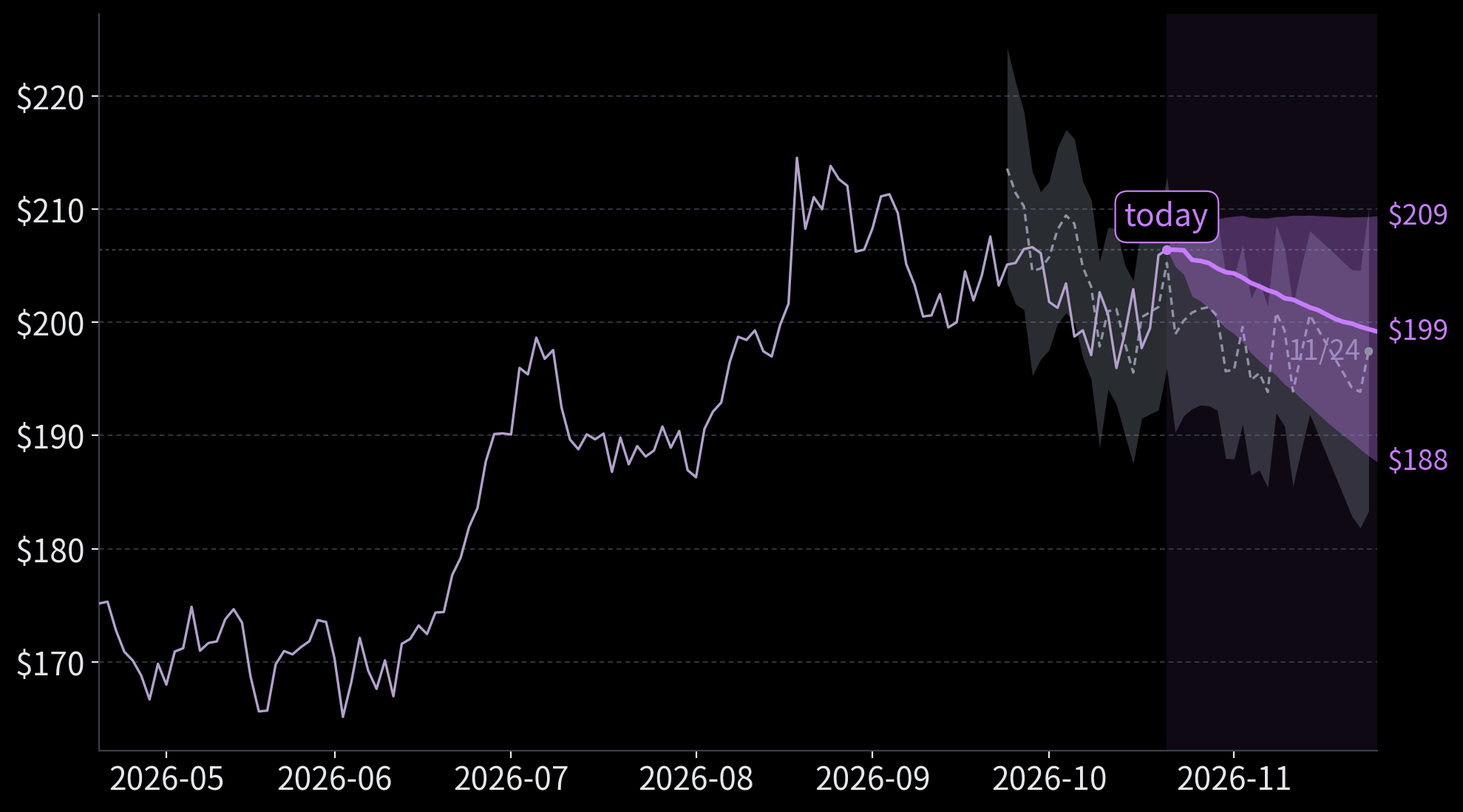
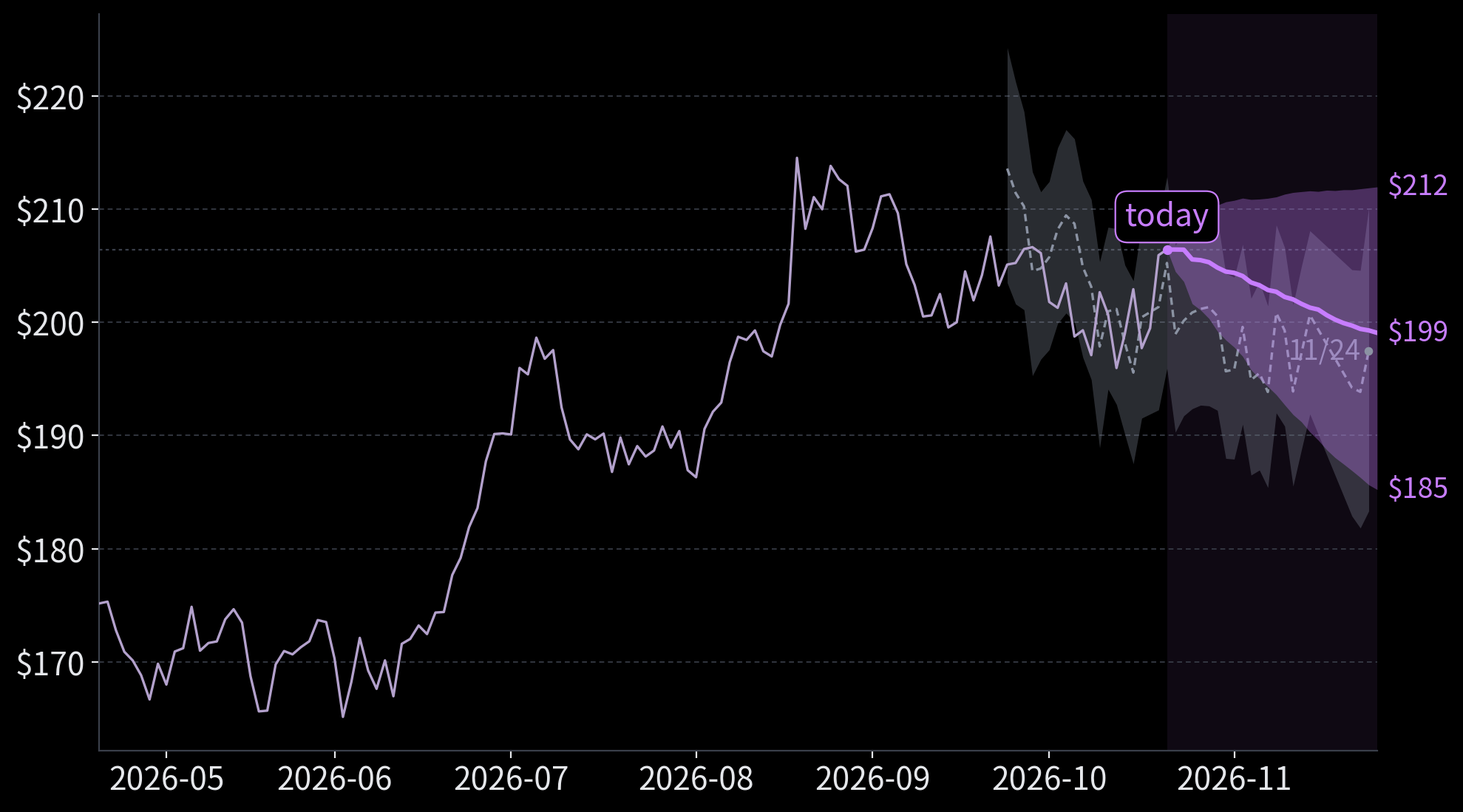
2026-10-22 biotech 리포트 공개본

diff --git a/r/20261022-biotech/report.html b/r/20261022-biotech/report.html
@@ -1,146 +1,165 @@
 <h2 id="오늘-판단-요약">오늘 판단 요약</h2>
-<p><img src="r/20261022-biotech/chart-biotech.png?v=277e4b48e6" /></p>
-<p><img src="r/20261022-biotech/predict-biotech.png?v=d1aae471c4" /></p>
+<p><img src="r/20261022-biotech/chart-biotech.png?v=337e635da9" /></p>
+<p><img src="r/20261022-biotech/predict-biotech.png?v=b8495b4a70" /></p>
 <h3
-id="현재-상태-기술주가-반등한-날-헬스케어로-옮겨-갔던-자금이-빠졌지만-대형-바이오-주가는-소폭-올랐다"><mark>현재
-상태</mark> 기술주가 반등한 날 헬스케어로 옮겨 갔던 자금이 빠졌지만 대형
-바이오 주가는 소폭 올랐다</h3>
-<p>10월 21일 미국 증시에서 투자자가 기술주와 산업재를 다시 사들였다.
-지난 몇 주 오르던 헬스케어·필수소비재·유틸리티 주가는 이날 상대적으로 덜
-올랐다. 나스닥 바이오테크놀로지 지수는 소폭 올랐지만, 중소형 바이오를
-고르게 담은 XBI는 내렸다. 나스닥 바이오테크놀로지 지수는 지난 1년 가운데
-상위 6% 안에 있다. 10년물 물가연동국채 실질금리와 10년물 국채 수익률이
-반년 가까이 높아서 국채가 주식보다 나은 수익을 주는 상태가 이어지고
-있다. 위험한 기업에 돈을 빌려줄 때 투자자가 요구하는 프리미엄(하이일드
-채권 스프레드)은 닷새째 1년 가운데 가장 높은 수준이다. 그래서 대형
-바이오 주가가 지금 수준에서 크게 오르기는 어렵다.</p>
+id="현재-상태-바이오-지수는-1년-고점-근처에-있지만-국채-금리가-높고-ai-기업의-부채에-대한-불안이-이어져-더-오르기-어렵다"><mark>현재
+상태</mark> 바이오 지수는 1년 고점 근처에 있지만, 국채 금리가 높고 AI
+기업의 부채에 대한 불안이 이어져 더 오르기 어렵다</h3>
+<p>10월 16일 AI 인프라 기업의 부채에 대한 우려 때문에 기술주가 크게
+하락했다. 바이오 주가도 같은 날 함께 하락했다. 모더나는 mRNA 기술로
+백신과 암 치료제를 만드는 기업이다. 10월 20일에는 모더나가 흑색종 백신
+발표를 앞두고 크게 오르면서 바이오 지수가 낙폭을 회복했다. 10월 21일에는
+투자자가 기술주를 다시 사들였고, 헬스케어 주식을 사던 자금은 하루 만에
+줄었다. 나스닥 바이오테크놀로지 지수는 지난 1년 가운데 가장 높은 수준에
+가깝다. 다만 국채가 주식보다 나은 수익을 주는 상태가 반년 가까이
+이어지고 있어, 신약 성과가 좋아도 주가가 크게 오르기는 어렵다. 위험
+회사채 시장의 신용 프리미엄도 1년 가운데 가장 높은 수준에 가깝게
+올랐지만, 금리가 크게 오른 채권은 아직 AI 관련 발행사와 최하위 등급
+채권이 대부분이다.</p>
 <h3
-id="주요-분기와-예측-모더나의-흑색종-백신-세부-결과와-위험-회사채-시장에-대한-불안-빅테크-실적이-이번-달에-중요하다"><mark>주요
-분기와 예측</mark> 모더나의 흑색종 백신 세부 결과와 위험 회사채 시장에
-대한 불안, 빅테크 실적이 이번 달에 중요하다</h3>
-<p>앞으로 한 달 동안 세 가지 이슈가 중요하다. 첫째는 머크와 함께 흑색종
-백신을 개발하는 모더나가 10월 24일 유럽종양학회에서 발표하는 3상 세부
-결과다. 투자자가 기대하는 효과 수준이 나올 가능성이 가장 높다고 보지만,
-모더나 주가가 이미 애널리스트 목표가보다 크게 올라 있어 결과가 기대에 못
-미치면 하락 폭이 크다. 둘째는 AI 데이터센터 발행사의 채권에 대한 불안
-때문에 위험 회사채 시장 전체의 프리미엄이 오르는지다. 신용등급 강등이나
-발행 철회가 이어질 가능성은 낮다고 본다. 셋째는 10월 28일 장 마감 뒤
-나오는 마이크로소프트 실적이다. 마이크로소프트가 AI 설비투자 계획을 지킬
-가능성이 높다고 본다.</p>
+id="주요-분기와-예측-앞으로-한-달-동안-모더나의-흑색종-백신-결과-ai-기업의-부채에-대한-불안-빅테크의-설비투자-계획이-중요하다"><mark>주요
+분기와 예측</mark> 앞으로 한 달 동안 모더나의 흑색종 백신 결과, AI
+기업의 부채에 대한 불안, 빅테크의 설비투자 계획이 중요하다</h3>
+<p>이번 달 바이오 주가에 가장 중요한 일은 10월 24일 모더나의 흑색종 백신
+3상 세부 결과 발표다. 재발 위험을 줄인 정도가 시장이 기대한 수준 근처로
+나올 가능성이 가장 높다고 본다. 두 번째는 AI 기업의 부채에 대한
+불안이다. 이 불안 때문에 위험 회사채 시장 전체의 신용 프리미엄까지 크게
+오를 가능성은 낮다고 본다. 세 번째는 10월 28일 마이크로소프트와 알파벳의
+실적 발표이고, 두 회사가 AI 설비투자 계획을 지킬 가능성이 높다고 본다.
+같은 날 연준은 금리를 동결하고 12월 인상 가능성을 남겨 둘 가능성이 높다.
+시장이 이미 예상한 결과라 발표 뒤 주가가 크게 움직이지 않는다.</p>
 <h3
-id="지수-영향-횡보-가능성이-가장-높고-하락이-그다음이며-큰-하락-가능성은-어제보다-줄었다"><mark>지수
-영향</mark> 횡보 가능성이 가장 높고 하락이 그다음이며, 큰 하락 가능성은
-어제보다 줄었다</h3>
-<p>가장 가능성이 높은 시나리오는 횡보이고, 그다음은 하락이다. 모더나
-결과가 기대에 못 미치거나 위험 회사채 시장 전체의 프리미엄이 오르면
-하락과 큰 하락 시나리오의 가능성이 커진다. 횡보 가능성은 어제보다
-커졌다. 큰 하락 가능성은 어제보다 줄었다. 어제 장 마감 뒤 메타는 매출이
-기대를 웃돌고 연간 설비투자 계획의 하단을 올렸다. 메타 실적에서는
-기술주가 급락해 바이오 주가도 하락할 신호가 나오지 않았다. 대형 바이오
-기업의 3분기 실적은 시장이 예상한 범위 안에서 나올 가능성이 높아, 실적
-발표 때문에 지수가 크게 오르거나 내리지는 않는다고 본다.</p>
+id="지수-영향-횡보-시나리오의-가능성이-가장-높고-모더나-결과가-실망스럽거나-ai-기업의-부채에-대한-불안이-커지면-하락-시나리오의-가능성이-커진다"><mark>지수
+영향</mark> 횡보 시나리오의 가능성이 가장 높고, 모더나 결과가
+실망스럽거나 AI 기업의 부채에 대한 불안이 커지면 하락 시나리오의
+가능성이 커진다</h3>
+<p>다섯 시나리오 가운데 횡보의 가능성이 가장 높고 하락이 그다음이다. 큰
+하락의 가능성도 하락과 비슷한 수준이다. 모더나 결과가 시장 기대에 못
+미치거나 AI 기업의 부채에 대한 불안 때문에 위험 회사채 시장 전체의 신용
+프리미엄까지 오르면 하락과 큰 하락 시나리오의 가능성이 커진다. 빅테크가
+설비투자 계획을 지키고 모더나 결과가 기대 근처로 나오면 횡보 시나리오의
+가능성이 커진다. 다섯 시나리오의 가능성은 어제와 거의 같다. 어제와 오늘
+사이 메타는 매출이 예상을 넘었고 올해 설비투자 계획의 하단을 올렸다.
+메타의 실적에도 위험 회사채 시장의 신용 프리미엄이 닷새 연속 높았으므로,
+상승 시나리오의 가능성은 조금 커지고 큰 하락 시나리오의 가능성은 조금
+줄었을 뿐이다.</p>
 <h2 id="주요-이슈-해설">주요 이슈 해설</h2>
 <h3
-id="1-모더나-백신-결과는-기대-수준에-맞을-가능성이-높지만-주가가-이미-크게-올라-실망하면-바이오-지수가-하락한다-중요도-높음">1.
-모더나 백신 결과는 기대 수준에 맞을 가능성이 높지만, 주가가 이미 크게
-올라 실망하면 바이오 지수가 하락한다 <code>중요도 높음</code></h3>
-<p><mark>현재 상태</mark> 모더나는 머크와 함께 환자마다 맞춘 흑색종
-백신을 개발하는 기업이다. 두 회사는 8월에 3상 시험이 재발 없이 생존하는
-기간을 늘렸다고 발표했지만 효과의 크기는 밝히지 않았다. 세부 결과는 10월
-24일(토) 유럽종양학회에서 나오고, 시장은 10월 26일 장에서 처음 반응한다.
-모더나 주가는 10월 21일 245.81달러로 일주일 전보다 10% 넘게 올랐다. TD
-Cowen은 목표가를 90달러로 올리면서도 보유 의견을 유지했다. Evercore
-ISI는 지금 주가가 전제한 확신을 지금까지 공개된 자료로는 설명할 수
-없다고 평가했다.</p>
-<p><mark>주요 분기와 예측</mark> 투자자가 재발 위험이 30% 줄어드는
-결과를 기대한다고 Jefferies는 전했다. 그 정도 결과가 나올 가능성이 가장
-높다고 본다. 반대로 재발 위험 감소 폭이 28%에 못 미치면 시장은 실망한다.
-효과가 낮은 병기 환자에서 재발 위험이 줄어드는지가 판단을 바꿀
-신호다.</p>
-<p><mark>지수 영향</mark> 모더나는 나스닥 바이오 지수를 따르는 IBB에서
-비중이 큰 종목이라, 모더나 주가가 크게 하락하면 바이오 지수도 함께
-하락한다. 결과가 기대를 크게 웃돌아도 공매도 잔고가 세 번 연속
-줄었으므로, 공매도 투자자가 주식을 다시 사들일 물량이 적어 주가가 크게
-오르기는 어렵다. 8월 20일 3상 첫 발표 다음 날 모더나 주가는 20% 넘게
-하락했다.</p>
-<h3
-id="2-ai-데이터센터-채권에-대한-불안-때문에-위험-회사채-시장-전체의-프리미엄이-오를-가능성은-낮지만-오르면-바이오-기업의-자금-조달이-어려워진다-중요도-높음">2.
-AI 데이터센터 채권에 대한 불안 때문에 위험 회사채 시장 전체의 프리미엄이
-오를 가능성은 낮지만, 오르면 바이오 기업의 자금 조달이 어려워진다
+id="1-모더나-흑색종-백신의-결과는-시장-기대-근처일-가능성이-높지만-주가가-이미-높아-결과가-실망스러우면-바이오-지수가-크게-하락한다-중요도-높음">1.
+모더나 흑색종 백신의 결과는 시장 기대 근처일 가능성이 높지만, 주가가
+이미 높아 결과가 실망스러우면 바이오 지수가 크게 하락한다
 <code>중요도 높음</code></h3>
-<p><mark>현재 상태</mark> 위험한 기업에 돈을 빌려줄 때 투자자가 요구하는
-프리미엄(하이일드 채권 스프레드)은 10월 14일부터 닷새 연속 1년 가운데
-가장 높은 수준이다. 골드만삭스는 AI 관련 회사채의 프리미엄이 크게
-올랐지만 AI와 무관한 회사채의 프리미엄은 거의 변하지 않았다고 분석했다.
-CNBC는 신용 데스크 소식통을 인용해, 투자자가 데이터센터에 대한 정치적
-반발을 우려하면서 위험 회사채 발행이 중간선거 뒤까지 사실상 멈췄다고
-전했다. 오라클은 7월 신용등급이 한 단계 내려간 뒤 새 등급 조치를 받지
-않았다. 바이오 기업은 아직 증자로 돈을 구하고 있다. 중소형 바이오 기업
-디스크 메디슨은 임상 성공 직후 4.5억 달러 규모의 신주를 시장가보다 조금
-낮은 가격에 팔았다.</p>
-<p><mark>주요 분기와 예측</mark> 한 달 안에 신용등급 강등이나 발행
-철회가 이어져 위험 회사채 시장 전체의 프리미엄이 오를 가능성은 낮다고
-본다. AI 관련 기업의 부도 위험 보험료는 오르지만 다른 등급의 회사채는
-크게 변하지 않을 가능성이 높다. 마이크로소프트 실적 뒤 기술주가 크게
-하락하면 위험 회사채 시장 전체의 프리미엄이 오를 가능성이 커진다.
-투기등급 가운데 중간 등급 채권의 프리미엄이 2주 넘게 높으면 판단이
-바뀐다.</p>
-<p><mark>지수 영향</mark> 위험 회사채 시장 전체의 프리미엄이 오르면
-투자자가 위험 자산을 팔기 때문에 현금이 적은 중소형 바이오 기업은 신주를
-팔기 어려워진다. 지금은 투자자가 바이오 기업의 증자 물량을 시장가와
-비슷한 가격에 사들이고 있어, 신주를 팔기 어려워지는 경로가 아직 작동하지
-않는다. 2023년 3월 실리콘밸리은행이 파산했을 때 바이오 지수는 사흘 동안
-하락했고, 예금자 전액 보호가 발표된 뒤 반등했다.</p>
+<p><mark>현재 상태</mark> 머크는 이 백신을 모더나와 함께 개발하는 미국
+대형 제약사다. 모더나와 머크는 10월 24일(토) 유럽종양학회(ESMO)에서
+흑색종 수술 환자의 재발을 막는 맞춤형 암 백신의 3상 세부 결과를
+발표한다. 두 회사는 8월 19일 이 시험이 1차 목표를 달성했다고 밝혔지만,
+위험비(백신을 맞은 환자의 재발 위험이 대조군의 몇 배인지)는 공개하지
+않았다. 골드만삭스는 지금 주가가 유지되려면 위험비가 0.70 아래여야
+한다고 봤다. 증권사 Evercore ISI는 주가가 이미 큰 확신을 반영했다고
+평가했다. 공개된 자료로는 그 확신을 뒷받침하기에 훨씬 부족하다고
+봤다.</p>
+<p><mark>주요 분기와 예측</mark> 위험비가 시장이 기대한 0.65와 0.72
+사이로 나올 가능성이 가장 높다고 본다. 위험비가 0.65 아래이고 환자군마다
+결과가 고르면 명확한 승리다. 위험비가 0.72를 넘으면 실망이다. 판단을
+바꿀 신호는 3상에 새로 들어간 초기 병기(IIB·IIC기) 환자에서 효과가
+약하게 나오는지다.</p>
+<p><mark>지수 영향</mark> 모더나는 IBB에서 비중이 약 6%로 큰 종목이어서,
+모더나 주가가 크게 하락하면 지수도 눈에 띄게 하락한다. 결과가
+실망스러우면 모더나 주식을 산 투자자가 매도하고 다른 백신 종목에 대한
+기대도 줄어 지수가 하락한다. 명확한 승리여도 공매도 잔고가 세 번 연속
+줄었기 때문에, 공매도 투자자의 청산 매수로 생기는 추가 상승은 크지 않다.
+8월 20일 1차 목표 달성 발표 다음 날 모더나 주가가 하루에 23.55%
+하락했지만, 그 뒤 두 달 동안 다시 올라 10월 21일 245.81달러가 됐다.</p>
 <h3
-id="3-마이크로소프트가-ai-설비투자-계획을-지킬-가능성이-높아-기술주가-급락하면서-바이오-주가도-하락할-가능성은-낮다-중요도-보통">3.
-마이크로소프트가 AI 설비투자 계획을 지킬 가능성이 높아 기술주가
-급락하면서 바이오 주가도 하락할 가능성은 낮다
+id="2-ai-기업의-부채에-대한-불안-때문에-위험-회사채-시장-전체의-신용-프리미엄까지-오를-가능성은-낮다고-보지만-오르면-바이오-지수도-크게-하락한다-중요도-보통">2.
+AI 기업의 부채에 대한 불안 때문에 위험 회사채 시장 전체의 신용
+프리미엄까지 오를 가능성은 낮다고 보지만, 오르면 바이오 지수도 크게
+하락한다 <code>중요도 보통</code></h3>
+<p><mark>현재 상태</mark> 하이일드 채권 스프레드(투자자가 위험한 기업에
+돈을 빌려줄 때 요구하는 신용 프리미엄)는 10월 14일부터 닷새 연속 3.20%를
+넘었고, 10월 20일 3.33%로 1년 가운데 가장 높은 수준에 가까웠다.
+골드만삭스는 AI 관련 부채의 스프레드가 크게 넓어졌지만 AI와 무관한 BB·B
+등급 부채의 스프레드는 거의 변하지 않았다고 분석했다. 오라클은 AI
+데이터센터에 대규모로 투자하는 클라우드 기업이다. CNBC에 따르면 오라클의
+5년 신용부도스와프(부도에 대비하는 보험료) 가격은 10월 19일 315bp로 1년
+전의 네 배를 넘었다. CNBC는 10월 21일 익명의 신용 데스크 소식통을
+인용해, 데이터센터에 정치적 반발이 일어날 수 있다는 우려 때문에 하이일드
+채권 발행이 중간선거 뒤까지 사실상 멈췄다고 전했다. 다만 3.33%는
+평상시로 보는 5%보다 낮은 값이어서, 시장은 이 불안을 AI 관련 기업의
+문제로 본다.</p>
+<p><mark>주요 분기와 예측</mark> 한 달 안에 신용등급 강등이나 채권 발행
+철회가 이어져 위험 회사채 시장 전체의 신용 프리미엄이 크게 오를 가능성은
+낮다고 본다. 마이크로소프트 실적 발표 뒤 기술주가 크게 하락하거나 연준이
+금리를 올리면 위험 회사채 시장 전체의 신용 프리미엄이 크게 오를 가능성이
+커진다. 판단을 바꿀 신호는 BB·B 등급 스프레드가 2주 넘게 지금처럼
+높은지다.</p>
+<p><mark>지수 영향</mark> 위험 회사채 시장 전체의 신용 프리미엄이 오르면
+투자자가 위험 자산을 줄이고, 현금이 부족한 중소형 바이오 기업의 증자
+비용도 오른다. 지금은 이 경로가 작동하지 않는다. 바이오 기업 디스크
+메디슨은 3상 성공 발표 다음 날인 10월 20일 4.5억 달러 증자를 직전
+종가보다 약 6% 낮은 가격에 마쳤다. 2018년 11월 Baa 회사채 스프레드가
+넓어지자 바이오 주가는 12월 24일까지 하락했고, 2019년 1월 4일 파월 연준
+의장이 정해진 정책 경로가 없다고 말한 뒤에야 반등했다.</p>
+<h3
+id="3-마이크로소프트알파벳은-ai-설비투자-계획을-지킬-가능성이-높지만-계획을-줄이면-기술주와-함께-바이오-주가도-하락한다-중요도-보통">3.
+마이크로소프트·알파벳은 AI 설비투자 계획을 지킬 가능성이 높지만, 계획을
+줄이면 기술주와 함께 바이오 주가도 하락한다
 <code>중요도 보통</code></h3>
-<p><mark>현재 상태</mark> 10월 21일 장 마감 뒤 메타는 3분기 매출이
-기대를 웃돌았고 올해 설비투자 계획의 하단을 1,350억 달러로 올렸다. 메타
-주가는 시간외 거래에서 올랐다. 메타와 달리 테슬라는 올해 설비투자 계획을
-줄이고 시간외 거래에서 하락했다. 반도체 장비 기업 램리서치도 다음 분기
-전망이 예상을 조금 웃돌았지만 주가가 6% 넘게 하락했다. 투자자가 AI 관련
-실적을 이미 높게 기대하고 있어서, 실적이 좋아도 기대를 크게 넘지 못한
-기업의 주식을 팔았다.</p>
-<p><mark>주요 분기와 예측</mark> 마이크로소프트는 10월 28일 장 마감 뒤
-실적을 발표한다. 메타가 설비투자 계획을 지켰으므로 마이크로소프트도
-계획을 지킬 가능성이 높다고 본다. 반대로 마이크로소프트가 설비투자를
-줄이거나 자금 조달에 대한 우려를 키우는 발언을 하면 기술주가 다시 크게
-하락한다. 기술주가 하락하는 날 바이오 주가도 함께 하락하는지가 판단을
-바꿀 신호다.</p>
-<p><mark>지수 영향</mark> 설비투자 계획이 유지되면 기술주에 대한 불안이
-줄어 바이오 주가도 오른다. 이때 투자자는 헬스케어로 옮겼던 자금 일부로
-기술주를 다시 사들인다. 설비투자를 줄이면 AI 기업의 부채에 대한 불안이
-다시 커져 바이오 주가도 함께 하락한다. 10월 16일 나스닥이 2.3% 하락한 날
-IBB와 XBI도 함께 하락했다.</p>
+<p><mark>현재 상태</mark> 10월 16일 AI 인프라 기업의 부채에 대한 우려
+때문에 나스닥 종합지수가 2.3% 하락했다. 같은 날 IBB는 2.61%, 중소형
+바이오 ETF인 XBI는 3.65% 하락했다. 10월 21일 장 마감 뒤 메타는 매출이
+예상을 넘었고 올해 설비투자 계획의 하단을 1,350억 달러로 올려 시간외
+거래에서 올랐다. 반도체 장비 기업 램리서치는 같은 날 다음 분기 전망이
+예상을 웃돌았는데도 시간외 거래에서 5% 넘게 하락했다. 서울경제는
+램리서치의 전망이 예상을 조금 웃돌았을 뿐이어서 주가가 하락했다고
+설명했다. 투자자가 AI 기업에 거는 기대가 이미 높아서 좋은 실적만으로는
+주가가 오르기 어렵다.</p>
+<p><mark>주요 분기와 예측</mark> 마이크로소프트와 알파벳은 10월 28일 장
+마감 뒤 실적을 발표한다. 두 회사가 AI 설비투자 계획을 유지하거나 늘릴
+가능성이 높다고 본다. 메타도 계획을 지켰으므로 같은 방향의 근거가 된다.
+판단을 바꿀 신호는 QQQ가 10월 6일 고점보다 8% 넘게 하락하는지다.</p>
+<p><mark>지수 영향</mark> 계획이 유지되면 기술주에 대한 불안이 줄어
+바이오 주가도 조금 오른다. 계획이 줄면 AI 기업의 부채에 대한 불안이 다시
+커지고, 기술주가 급락하는 날 바이오 주가도 함께 하락한다. 헬스케어
+주식을 사던 자금이 10월 21일 하루 만에 줄었기 때문에, 기술주가 하락할 때
+바이오 주가도 함께 하락하기 쉽다. 2018년 4분기에는 QQQ가 1% 넘게 하락한
+22일 가운데 IBB가 오른 날이 하루도 없었다.</p>
 <h3 id="검토했지만-비중을-낮춘-이슈">검토했지만 비중을 낮춘 이슈</h3>
 <ul>
-<li><strong>바이오 기업 인수와 증자 시장</strong>: 대형 제약사가 상장
-바이오 기업을 인수할 가능성은 높지만, 인수 발표는 그날 하루 주가를
-올리고 한 달 주가 방향은 바꾸지 못한다. 바이오 기업은 지금 증자로 돈을
-구할 수 있고, 바이오 지수가 크게 하락하기 전에는 증자가 어려워질
-가능성이 낮다.</li>
-<li><strong>선거 뒤 미국의 이란 공격과 유가</strong>: 선거 뒤 공격이
-다시 시작될 위험을 예상한 투자자가 이미 원유를 사들여 유가가 올라 있다고
-본다. 공격이 호르무즈 해협 봉쇄로 이어질 가능성은 낮다.</li>
-<li><strong>애보트 등 의료기기 기업의 3분기 실적</strong>: 의료기기
-기업은 나스닥 바이오 지수의 구성 종목이 아니어서, 애보트가 매출 전망을
-낮춰도 바이오 지수의 이익으로 이어지는 경로가 약하다.</li>
+<li><strong>지수 하락에 따른 바이오 증자 창구 위축</strong>: 바이오
+기업의 증자와 기업공개가 아직 순조로워, 지수가 먼저 크게 하락해야 이
+경로가 작동한다.</li>
+<li><strong>상장 바이오 기업에 대한 추가 대형 인수</strong>: 10월에 인수
+두 건이 발표된 뒤 새 발표가 없고 다음 계기는 대형 제약사 실적 발표와
+선거 뒤다. 금리가 높은 시기라 인수가 발표돼도 주가 효과가 짧다고
+본다.</li>
+<li><strong>미국의 이란 공격과 유가</strong>: 트럼프 대통령이 선거
+전에는 공격하지 않겠다고 밝혀 선거 전 공격 가능성은 낮다. 투자자가 선거
+뒤 공격 위험을 이미 예상해 브렌트유가 올라 배럴당 110달러를 넘었다.</li>
+<li><strong>생명과학 도구·의료기기 기업의 3분기 실적</strong>: 애보트가
+연간 매출 전망을 낮춘 날 헬스케어 ETF가 하락했지만, 이 기업들은 IBB 구성
+종목이 아니어서 바이오 기업의 이익으로 이어지는 경로가 약하다.</li>
+<li><strong>미국 국립보건원(NIH)의 암 백신 민관 사업</strong>: 참여
+기업과 예산을 밝힐 1차 발표 일정이 없어 이번 달 주가에 주는 영향이 작다.
+암 백신에 대한 기대가 맞는지는 모더나 결과가 먼저 보여 준다.</li>
+<li><strong>메디케어 3차 약가 협상가 공표</strong>: 공표 시한이 11월
+30일이어서 결과가 한 달 뒤에 나오고, IBB 상위 종목 가운데 대상 약을 가진
+기업은 길리어드뿐이다.</li>
 </ul>
 <h2 id="다가오는-이벤트">다가오는 이벤트</h2>
-<p><img src="r/20261022-biotech/tree-biotech.png?v=5b1690ffa2" /></p>
+<p><img src="r/20261022-biotech/tree-biotech.png?v=d205d624b4" /></p>
 <h3
-id="2026-10-24토-모더나-흑색종-백신-3상-세부-결과-중요도-높음">2026-10-24(토)
-모더나 흑색종 백신 3상 세부 결과 <code>중요도 높음</code></h3>
+id="2026-10-24토-모더나-interpath-001-3상-esmo-세부-결과-중요도-높음">2026-10-24(토)
+모더나 INTerpath-001 3상 ESMO 세부 결과 <code>중요도 높음</code></h3>
 <table class="events">
 <thead><tr><th>분기</th><th>확률</th><th>전개 예상</th></tr></thead>
 <tbody>
-<tr><td class="branch">위험비 0.65 이하·하위군 일관(명확한 승리)</td><td class="chance">30%</td><td>모더나 주가가 올라 바이오 지수도 오르지만, 이미 오른 주가 때문에
-상승 폭이 몇 주 안에 줄어든다</td></tr>
-<tr><td class="branch">위험비 0.65~0.72(문턱 근처)</td><td class="chance">42%</td><td>시장이 예상한 결과라 바이오 지수가 크게 움직이지 않는다</td></tr>
-<tr><td class="branch">위험비 0.72 초과(실망)</td><td class="chance">28%</td><td>모더나 주가가 크게 하락해 바이오 지수도 하락하고, 백신 종목에 대한
-기대가 사라진다</td></tr>
+<tr><td class="branch">위험비 0.65 이하·하위군 일관(명확한 승리)</td><td class="chance">30%</td><td>모더나 주가가 오르고 바이오 지수도 조금 오른다. 공매도 잔고가 줄어
+있어 상승 폭은 크지 않다.</td></tr>
+<tr><td class="branch">위험비 0.65~0.72(문턱 근처)</td><td class="chance">42%</td><td>시장이 예상한 결과라 지수는 크게 움직이지 않는다. 주가가 애널리스트
+평가보다 높아 모더나는 조금 하락할 수 있다.</td></tr>
+<tr><td class="branch">위험비 0.72 초과(실망)</td><td class="chance">28%</td><td>모더나 주가가 크게 하락하고 백신 종목에 대한 기대가 줄어 바이오
+지수도 하락한다.</td></tr>
 </tbody>
 </table>
 <h3 id="2026-10-28수-fomc-중요도-낮음">2026-10-28(수) FOMC
@@ -148,9 +167,10 @@ id="2026-10-24토-모더나-흑색종-백신-3상-세부-결과-중요도-높음
 <table class="events">
 <thead><tr><th>분기</th><th>확률</th><th>전개 예상</th></tr></thead>
 <tbody>
-<tr><td class="branch">기준금리 동결·12월 인상 시사 유지</td><td class="chance">80%</td><td>시장이 이미 예상한 결과라 주가가 크게 움직이지 않는다</td></tr>
-<tr><td class="branch">동결·추가 조정 문구 약화</td><td class="chance">10%</td><td>투자자가 금리 인상이 끝난다고 예상해 바이오 주가가 오른다</td></tr>
-<tr><td class="branch">기준금리 0.25%p 인상</td><td class="chance">10%</td><td>금리가 더 오른다는 우려 때문에 바이오 주가가 하락한다</td></tr>
+<tr><td class="branch">기준금리 동결·12월 인상 시사 유지</td><td class="chance">80%</td><td>시장이 이미 예상한 결과라 지수는 크게 움직이지 않는다.</td></tr>
+<tr><td class="branch">동결·추가 조정 문구 약화</td><td class="chance">10%</td><td>12월 이후 추가 인상에 대한 기대가 줄어 바이오 주가가 오른다.</td></tr>
+<tr><td class="branch">기준금리 0.25%p 인상</td><td class="chance">10%</td><td>추가 인상에 대한 우려가 커져 현금 소진이 큰 바이오 기업부터 주가가
+하락한다.</td></tr>
 </tbody>
 </table>
 <h3
@@ -159,8 +179,9 @@ id="2026-10-28수-마이크로소프트알파벳-3분기-실적-중요도-보통
 <table class="events">
 <thead><tr><th>분기</th><th>확률</th><th>전개 예상</th></tr></thead>
 <tbody>
-<tr><td class="branch">AI 설비투자 계획 유지·상향</td><td class="chance">66%</td><td>기술주에 대한 불안이 줄어 바이오 주가도 오른다</td></tr>
-<tr><td class="branch">AI 설비투자 축소·조달 우려 확인</td><td class="chance">34%</td><td>AI 기업의 부채에 대한 불안이 커져 바이오 주가도 함께 하락한다</td></tr>
+<tr><td class="branch">AI 설비투자 계획 유지·상향</td><td class="chance">66%</td><td>기술주에 대한 불안이 줄어 바이오 주가도 조금 오른다.</td></tr>
+<tr><td class="branch">AI 설비투자 축소·조달 우려 확인</td><td class="chance">34%</td><td>AI 기업의 부채에 대한 불안이 다시 커져 기술주와 함께 바이오 주가도
+하락한다.</td></tr>
 </tbody>
 </table>
 <h3 id="2026-10-29목-9월-pce-물가-중요도-낮음">2026-10-29(목) 9월 PCE
@@ -168,18 +189,19 @@ id="2026-10-28수-마이크로소프트알파벳-3분기-실적-중요도-보통
 <table class="events">
 <thead><tr><th>분기</th><th>확률</th><th>전개 예상</th></tr></thead>
 <tbody>
-<tr><td class="branch">근원 전월비 0.35% 이상</td><td class="chance">22%</td><td>투자자가 내년 추가 인상을 예상해 바이오 주가가 조금 하락한다</td></tr>
-<tr><td class="branch">근원 전월비 0.25~0.34%</td><td class="chance">70%</td><td>시장이 이미 예상한 결과라 주가가 크게 움직이지 않는다</td></tr>
-<tr><td class="branch">근원 전월비 0.24% 이하</td><td class="chance">8%</td><td>금리 인상이 끝난다는 기대로 바이오 주가가 조금 오른다</td></tr>
+<tr><td class="branch">근원 전월비 0.35% 이상</td><td class="chance">22%</td><td>내년 추가 인상에 대한 기대가 커져 바이오 주가가 조금 하락한다.</td></tr>
+<tr><td class="branch">근원 전월비 0.25~0.34%</td><td class="chance">70%</td><td>이코노미스트 예상 범위의 결과라 주가가 크게 움직이지 않는다.</td></tr>
+<tr><td class="branch">근원 전월비 0.24% 이하</td><td class="chance">8%</td><td>인상에 대한 기대가 줄어 바이오 주가가 조금 오른다.</td></tr>
 </tbody>
 </table>
-<h3 id="2026-10-30금-리제네론-3분기-실적-중요도-낮음">2026-10-30(금)
-리제네론 3분기 실적 <code>중요도 낮음</code></h3>
+<h3 id="2026-10-29목-길리어드-3분기-실적-중요도-낮음">2026-10-29(목)
+길리어드 3분기 실적 <code>중요도 낮음</code></h3>
 <table class="events">
 <thead><tr><th>분기</th><th>확률</th><th>전개 예상</th></tr></thead>
 <tbody>
-<tr><td class="branch">매출·EPS 컨센서스 이상·비용 가이던스 유지</td><td class="chance">58%</td><td>시장이 예상한 결과라 바이오 지수가 크게 움직이지 않는다</td></tr>
-<tr><td class="branch">Dupixent 둔화로 매출 미달 또는 비용 가이던스 악화</td><td class="chance">42%</td><td>리제네론 주가가 하락하고 다른 대형 바이오 실적에 대한 걱정도 커져
-지수가 조금 하락한다</td></tr>
+<tr><td class="branch">매출·EPS 컨센서스 이상·가이던스 유지 이상</td><td class="chance">62%</td><td>IBB 비중 1위 종목의 주가가 크게 움직이지 않아 지수도 크게 움직이지
+않는다.</td></tr>
+<tr><td class="branch">가이던스 유지에도 3% 넘게 하락하거나 매출 미달</td><td class="chance">38%</td><td>길리어드 주가가 하락해 지수도 조금 하락하고, 다른 대형 바이오 기업의
+실적에 대한 기대도 낮아진다.</td></tr>
 </tbody>
 </table>
